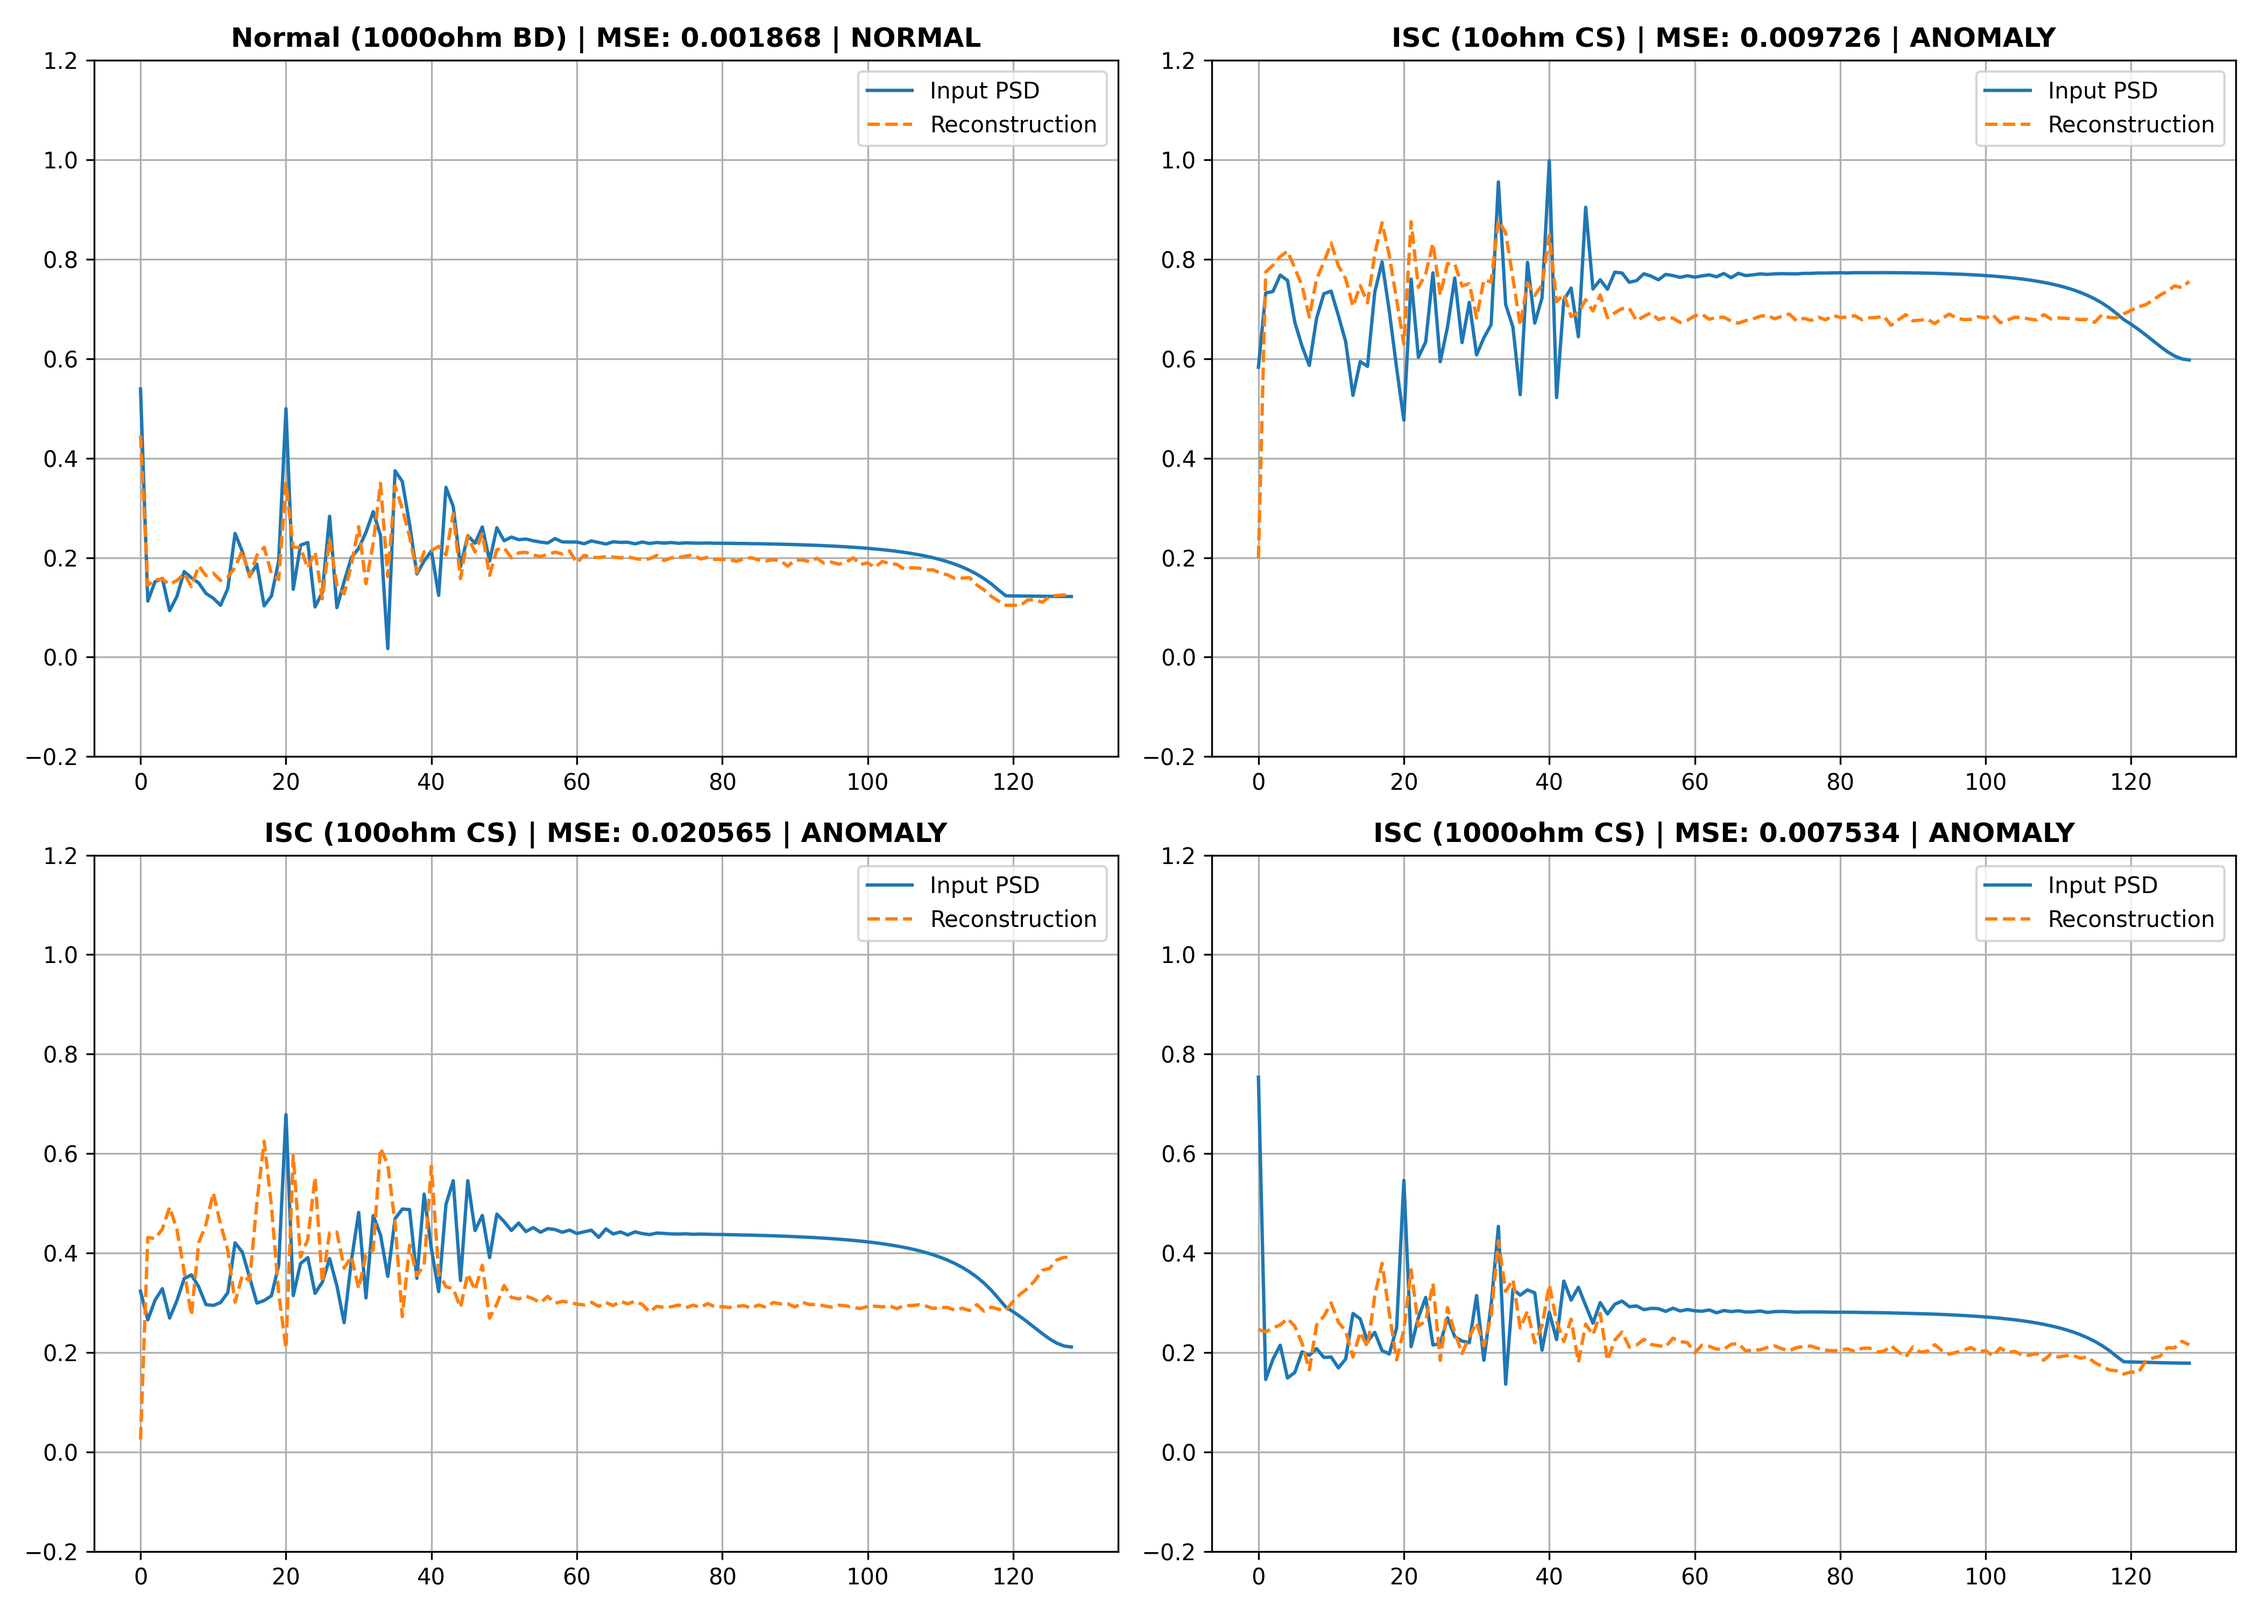
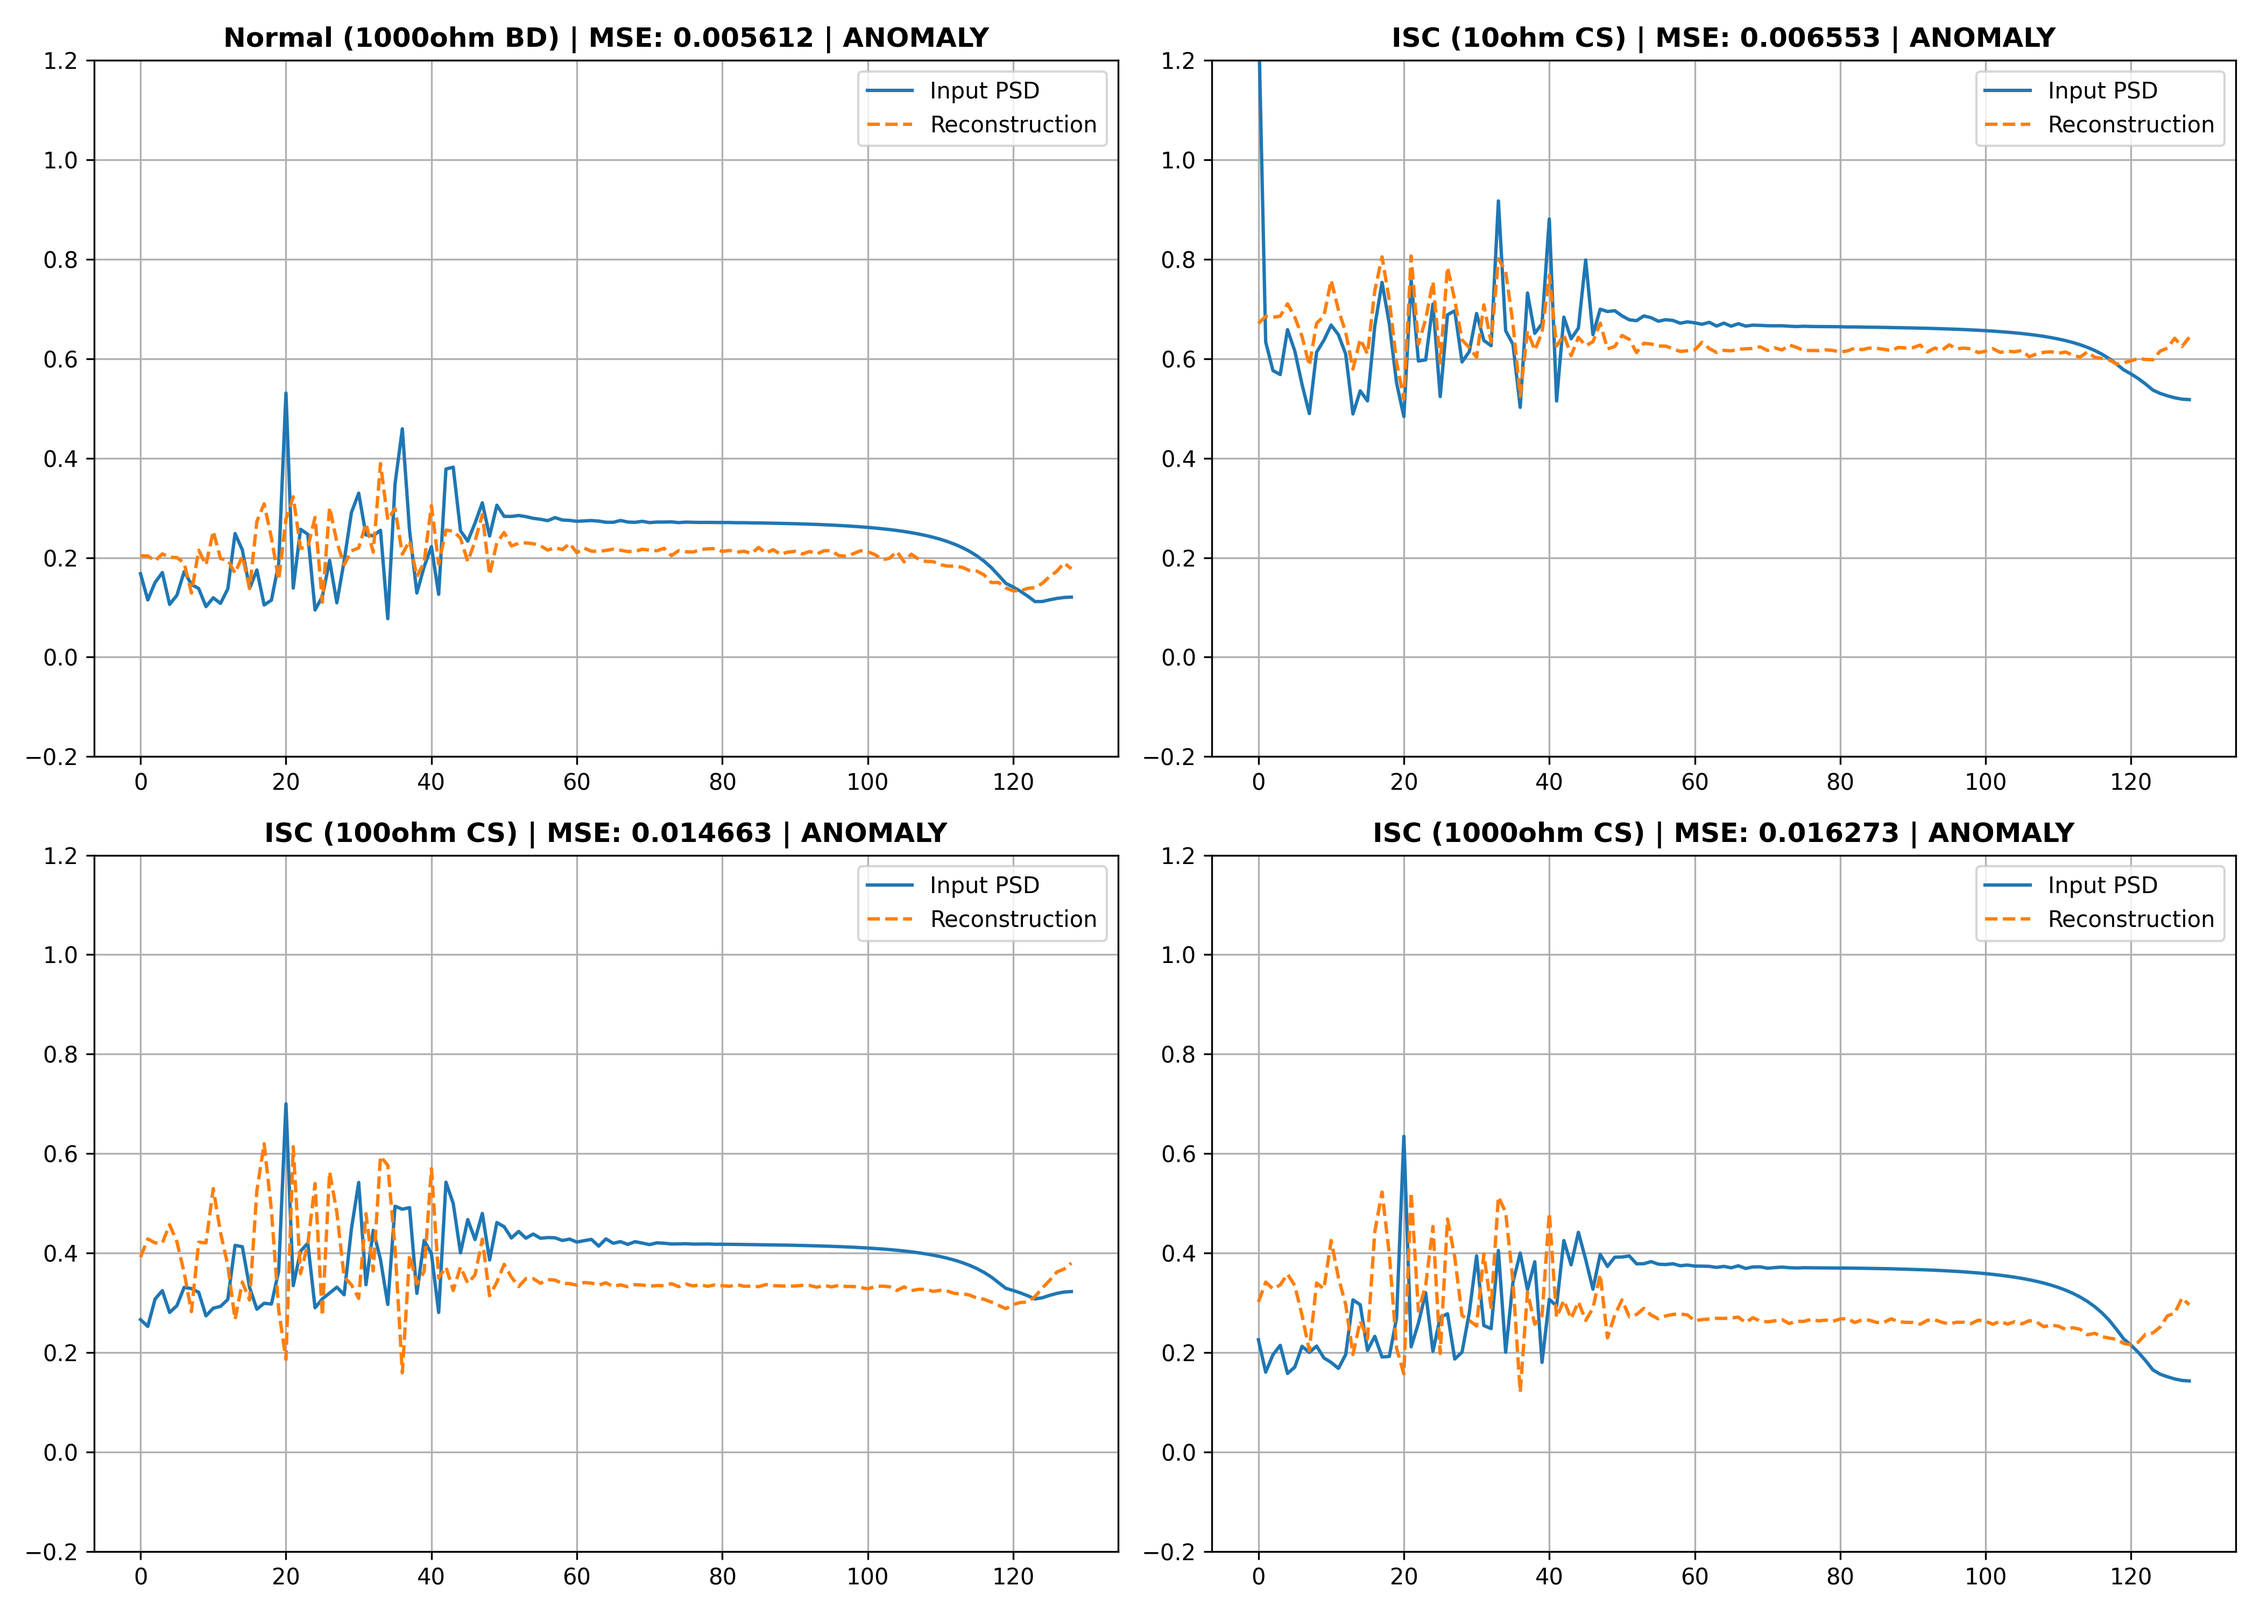
denoise cut-off sweep

diff --git a/utils/denoise_cutoff_sweep.py b/utils/denoise_cutoff_sweep.py
@@ -1,0 +1,260 @@
+import sys
+from pathlib import Path
+
+import matplotlib
+matplotlib.use("Agg")
+import matplotlib.pyplot as plt
+import numpy as np
+import pandas as pd
+from scipy.signal import welch
+
+PROJECT_ROOT = Path(__file__).resolve().parents[1]
+sys.path.insert(0, str(PROJECT_ROOT))
+
+from utils.data import load_right_block, add_coulomb_counted_soc
+from utils.ocv import build_ocv_table_from_cc
+from utils.pipeline import run_ekf
+from utils.denoise import (
+    denoise_innovation,
+    estimate_sampling_rate,
+    crop_by_seconds,
+)
+
+# ==============================
+# 경로 설정
+# ==============================
+DATASET_ROOT = (
+    PROJECT_ROOT
+    / "voltage_prediction_and_ISC_detection-V1.0"
+    / "swhlqu-voltage_prediction_and_ISC_detection-dd56682"
+)
+
+NORMAL_CC_PATH = (
+    DATASET_ROOT
+    / "NCM811_NORMAL_TEST"
+    / "CC"
+    / "ISC_BD_0.5CC_0.5CD_1000ohm.csv"
+)
+
+# 비교할 대상 파일
+# 필요하면 10ohm / 100ohm / 1000ohm 바꿔가며 실행하면 됨
+TARGET_PATH = (
+    DATASET_ROOT
+    / "NCM811_ISC_TEST"
+    / "DST"
+    / "ISC_CS_1.2CC_DST_1000ohm.csv"
+)
+
+RESULTS_DIR = PROJECT_ROOT / "results"
+RESULTS_DIR.mkdir(exist_ok=True)
+
+ECM_FIXED = {
+    "R0": 0.015,
+    "R1": 0.01,
+    "C1": 2400.0,
+    "P0": np.diag([1e-4, 1e-3]),
+}
+
+
+def load_best_ekf_params():
+    """
+    cc_ekf_design.py가 저장한 최적 Q/R을 읽어 EKF 파라미터로 변환.
+    먼저 scripts/cc_ekf_design.py를 실행해 results에 csv가 있어야 함.
+    """
+    best_path = RESULTS_DIR / "cc_best_ekf_params.csv"
+    grid_path = RESULTS_DIR / "cc_qr_grid_search.csv"
+
+    if best_path.exists():
+        best = pd.read_csv(best_path).iloc[0]
+    elif grid_path.exists():
+        best = pd.read_csv(grid_path).sort_values("score").iloc[0]
+    else:
+        raise FileNotFoundError(
+            "최적 Q/R 결과 파일이 없습니다. 먼저 `python scripts/cc_ekf_design.py`를 실행하세요."
+        )
+
+    params = {
+        **ECM_FIXED,
+        "Q": np.diag([float(best["q_soc"]), float(best["q_vrc"])]),
+        "R": np.array([[float(best["r"])]]),
+    }
+
+    print(
+        f"최적 EKF Q/R 사용: q_soc={float(best['q_soc']):.3e}, "
+        f"q_vrc={float(best['q_vrc']):.3e}, r={float(best['r']):.3e}"
+    )
+    return params
+
+
+def compute_psd(result_data, source_col, crop_seconds=500, nperseg=256):
+    """
+    result_data에서 특정 컬럼의 Welch PSD 계산.
+    denoise.py의 fs 추정/crop 방식과 동일하게 맞춤.
+    """
+    _, fs = estimate_sampling_rate(result_data, time_col="time")
+    stable = crop_by_seconds(result_data, crop_seconds=crop_seconds, time_col="time")
+
+    if stable.empty:
+        raise ValueError("crop 이후 남은 데이터가 없습니다. crop_seconds를 줄이세요.")
+
+    signal = stable[source_col].to_numpy(dtype=float)
+    signal = signal[np.isfinite(signal)]
+
+    seg = min(nperseg, len(signal))
+    if seg < 2:
+        raise ValueError("PSD 계산에 필요한 데이터가 부족합니다.")
+
+    freqs, psd = welch(
+        signal,
+        fs=fs,
+        nperseg=seg,
+        scaling="density",
+        detrend=False,
+    )
+
+    return freqs, psd
+
+
+def main():
+    # ==============================
+    # 1. OCV(SOC) 기준 생성
+    # ==============================
+    print("1. OCV(SOC) 기준 생성 중...")
+    normal_cc = load_right_block(NORMAL_CC_PATH)
+    soc_table, ocv_table = build_ocv_table_from_cc([normal_cc])
+    cap = normal_cc["capacity_ah"].max() * 3600.0
+    ekf_params = load_best_ekf_params()
+
+    # ==============================
+    # 2. 대상 DST 데이터에 EKF 적용
+    # ==============================
+    print(f"\n2. 대상 파일 로드: {TARGET_PATH.name}")
+    raw_data = load_right_block(TARGET_PATH)
+    target_data = add_coulomb_counted_soc(raw_data, cap)
+
+    print("3. EKF 실행 → residual 생성")
+    result_data = run_ekf(
+        target_data,
+        soc_table,
+        ocv_table,
+        cap,
+        ekf_params=ekf_params,
+        initialize_vrc=True,
+    )
+
+    # ==============================
+    # 3. Raw PSD 계산
+    # ==============================
+    print("4. Raw residual PSD 계산")
+    freqs_raw, psd_raw = compute_psd(
+        result_data,
+        source_col="residual",
+        crop_seconds=500,
+        nperseg=256,
+    )
+
+    # ==============================
+    # 4. cutoff sweep
+    # ==============================
+    cutoffs = [0.05, 0.10, 0.20, 0.30]
+
+    psd_results = {}
+
+    for cutoff in cutoffs:
+        print(f"5. cutoff={cutoff:.2f}Hz denoise 적용 및 PSD 계산")
+
+        filtered_data = denoise_innovation(
+            result_data,
+            source_col="residual",
+            output_col=f"filtered_residual_{cutoff}",
+            cutoff_hz=cutoff,
+            butter_order=4,
+            savgol_window=0,
+        )
+
+        freqs_filt, psd_filt = compute_psd(
+            filtered_data,
+            source_col=f"filtered_residual_{cutoff}",
+            crop_seconds=500,
+            nperseg=256,
+        )
+
+        psd_results[cutoff] = (freqs_filt, psd_filt)
+
+    # ==============================
+    # 5. PSD 비교 그래프 저장
+    # ==============================
+    fig, ax = plt.subplots(figsize=(12, 6))
+
+    ax.semilogy(
+        freqs_raw,
+        psd_raw + 1e-18,
+        label="Raw residual PSD",
+        linewidth=1.5,
+        alpha=0.9,
+    )
+
+    for cutoff, (freqs_filt, psd_filt) in psd_results.items():
+        ax.semilogy(
+            freqs_filt,
+            psd_filt + 1e-18,
+            label=f"Filtered PSD cutoff={cutoff:.2f}Hz",
+            linewidth=1.2,
+        )
+
+    ax.set_xlim(0.0, 0.30)
+    ax.set_xlabel("Frequency [Hz]")
+    ax.set_ylabel("PSD [V²/Hz]")
+    ax.set_title(f"Cutoff Sweep PSD Comparison: {TARGET_PATH.name}")
+    ax.grid(True, alpha=0.3)
+    ax.legend(fontsize=9)
+
+    save_path = RESULTS_DIR / f"denoise_cutoff_sweep_{TARGET_PATH.stem}.png"
+    fig.tight_layout()
+    fig.savefig(save_path, dpi=300)
+    plt.close(fig)
+
+    print(f"\nPSD 비교 그래프 저장 완료: {save_path}")
+
+    # ==============================
+    # 6. 특정 대역 에너지 요약 저장
+    # ==============================
+    bands = {
+        "low_0.00_0.05Hz": (0.00, 0.05),
+        "isc_candidate_0.10_0.20Hz": (0.10, 0.20),
+        "high_0.20_0.30Hz": (0.20, 0.30),
+    }
+
+    rows = []
+
+    def band_energy(freqs, psd, fmin, fmax):
+        mask = (freqs >= fmin) & (freqs <= fmax)
+        if not np.any(mask):
+            return np.nan
+        return float(np.trapezoid(psd[mask], freqs[mask]))
+
+    for band_name, (fmin, fmax) in bands.items():
+        rows.append({
+            "case": "raw",
+            "cutoff_hz": "none",
+            "band": band_name,
+            "energy": band_energy(freqs_raw, psd_raw, fmin, fmax),
+        })
+
+        for cutoff, (freqs_filt, psd_filt) in psd_results.items():
+            rows.append({
+                "case": "filtered",
+                "cutoff_hz": cutoff,
+                "band": band_name,
+                "energy": band_energy(freqs_filt, psd_filt, fmin, fmax),
+            })
+
+    summary_df = pd.DataFrame(rows)
+    csv_path = RESULTS_DIR / f"denoise_cutoff_sweep_{TARGET_PATH.stem}.csv"
+    summary_df.to_csv(csv_path, index=False)
+
+    print(f"대역별 PSD 에너지 요약 저장 완료: {csv_path}")
+
+
+if __name__ == "__main__":
+    main()
